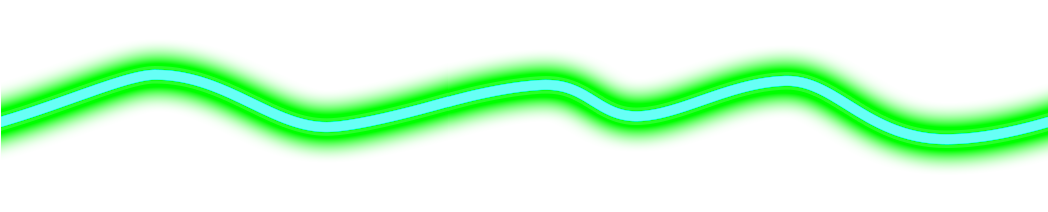
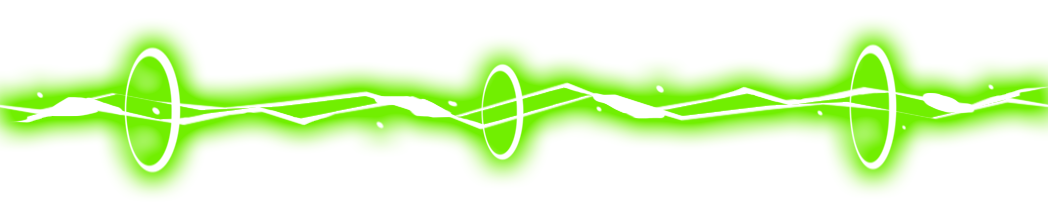
sdf

diff --git a/Assets/Scripts/MonsterController.cs b/Assets/Scripts/MonsterController.cs
@@ -35,6 +35,8 @@ public class MonsterController : MonoBehaviour
 	public GameObject gun;
 	public float scrollSpeed;
 
+	public GameObject laserEffectPrefab;
+
 	bool moveForward;
 	bool moveBackward;
 	bool wrongInput = false;
@@ -53,6 +55,8 @@ public class MonsterController : MonoBehaviour
 
 	KeyCode expectedKey = KeyCode.None;
 	float expectedTime;
+
+	GameObject laserEffect;
 
 	static MonsterController This;
 
@@ -102,6 +106,9 @@ public class MonsterController : MonoBehaviour
 
 		redGlow.SetActive(false);
 		greenGlow.SetActive(false);
+
+		laserEffect = Instantiate(laserEffectPrefab);
+		laserEffect.SetActive(false);
 	}
 
 	void Move()
@@ -339,6 +346,9 @@ public class MonsterController : MonoBehaviour
 			currentScroll += Time.deltaTime * scrollSpeed;
 			laser.transform.right = dir;
 
+			laserEffect.SetActive(true);
+			laserEffect.transform.position = hitPoint + Vector3.up*0.1f + Vector3.back*0.2f;
+
 			if(needRed)
 			{
 				redGlow.SetActive(true);
@@ -361,7 +371,10 @@ public class MonsterController : MonoBehaviour
 		if(Input.GetMouseButtonUp(0))
 		{
 			if(laser != null)
+			{
 				Destroy(laser);
+				laserEffect.SetActive(false);
+			}
 
 			redGlow.SetActive(false);
 			greenGlow.SetActive(false);
